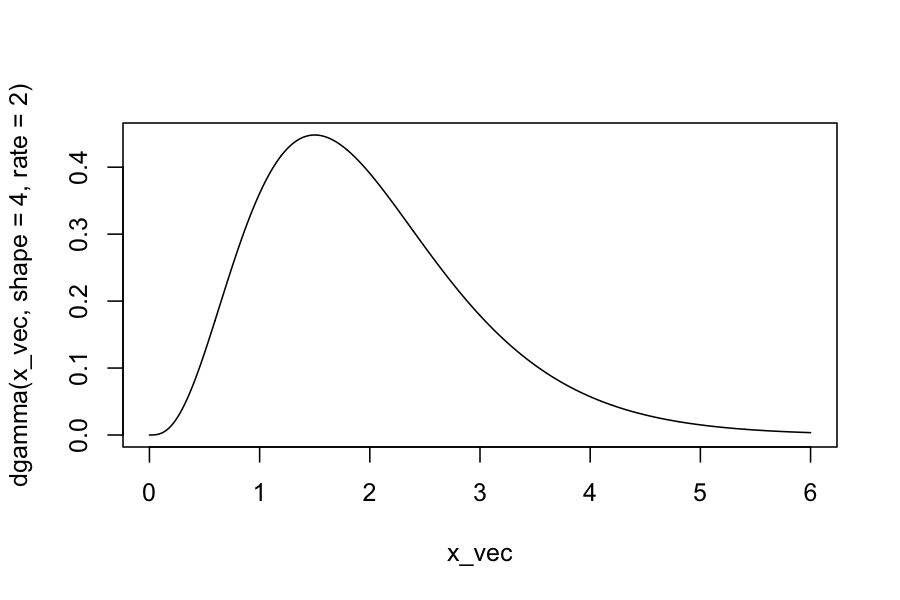
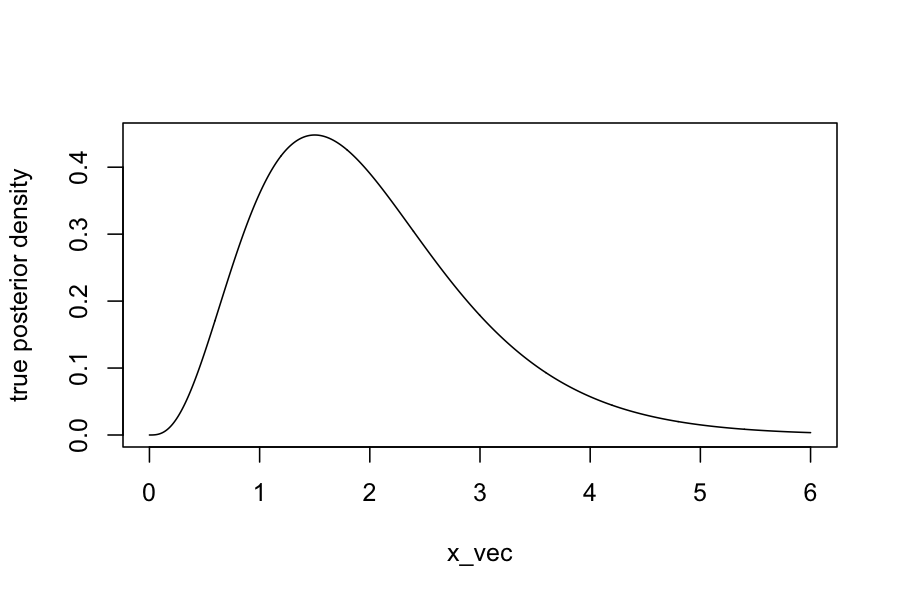
fix lecture 23

Changed region(s): [[0.0, 0.12, 0.0311, 0.81]]

diff --git a/teaching/stat710/notes/lecture23.html b/teaching/stat710/notes/lecture23.html
@@ -104,7 +104,7 @@ P(\theta \mid y_1,\ldots, y_n) &amp;= \frac{P(y_1,\ldots, y_n \mid \theta)\pi(\t
 <div class="incremental">
 <p>Sampling: for <span class="math">\(i = 1,\ldots, N\)</span>:</p>
 <ul>
-<li><p>Generate <span class="math">\(\theta^{(i)} \sim g(\theta)\)</span></p></li>
+<li><p>Generate <span class="math">\(\theta^{(i)} \sim \pi(\theta)\)</span></p></li>
 <li><p>Generate <span class="math">\(y^{(i)} \sim p(y \mid \theta^{(i)})\)</span></p></li>
 <li><p>If <span class="math">\(y^{(i)} = y_{\text{obs}}\)</span>, accept <span class="math">\(\theta^{(i)}\)</span></p></li>
 </ul>
@@ -164,7 +164,7 @@ observed_data =<span class="st"> </span><span class="dv">3</span>
 <div class="slide section level2">
 
 <div class="incremental">
-<pre class="sourceCode r"><code class="sourceCode r">## our posterior should be gamma(x + alpha, 1 + beta) or gamma(4, 2)
+<pre class="sourceCode r"><code class="sourceCode r">## our posterior should be gamma(y + alpha, 1 + beta) or gamma(4, 2)
 ## The mean of a gamma distribution is alpha / beta, so should be 2
 <span class="kw">mean</span>(posterior_samples)</code></pre>
 <pre><code>## [1] 2.037032</code></pre>
@@ -177,7 +177,7 @@ observed_data =<span class="st"> </span><span class="dv">3</span>
 <img src="lecture-23-fig/unnamed-chunk-3-1.png" />
 </div>
 <pre class="sourceCode r"><code class="sourceCode r">x_vec =<span class="st"> </span><span class="kw">seq</span>(<span class="dv">0</span>, <span class="dv">6</span>, <span class="dt">length.out =</span> <span class="dv">1000</span>)
-<span class="kw">plot</span>(<span class="kw">dgamma</span>(x_vec, <span class="dt">shape =</span> <span class="dv">4</span>, <span class="dt">rate =</span> <span class="dv">2</span>) ~<span class="st"> </span>x_vec, <span class="dt">type =</span> <span class="st">&#39;l&#39;</span>)</code></pre>
+<span class="kw">plot</span>(<span class="kw">dgamma</span>(x_vec, <span class="dt">shape =</span> <span class="dv">4</span>, <span class="dt">rate =</span> <span class="dv">2</span>) ~<span class="st"> </span>x_vec, <span class="dt">type =</span> <span class="st">&#39;l&#39;</span>, <span class="dt">ylab=</span><span class="st">&quot;true posterior density&quot;</span>)</code></pre>
 <div class="figure">
 <img src="lecture-23-fig/unnamed-chunk-3-2.png" />
 </div>
@@ -200,7 +200,7 @@ observed_data =<span class="st"> </span><span class="kw">rep</span>(<span class=
 <pre><code>## [1] 1.445692</code></pre>
 <pre class="sourceCode r"><code class="sourceCode r"><span class="kw">system.time</span>(<span class="kw">replicate</span>(<span class="dt">n =</span> <span class="dv">1000</span>, <span class="kw">generate_abc_sample</span>(observed_data, prior_distribution, data_generating_function)))</code></pre>
 <pre><code>##    user  system elapsed 
-##   0.737   0.120   0.860</code></pre>
+##   0.767   0.119   0.889</code></pre>
 <p>(Try changing <code>n_samples</code> to something bigger on your own computer...)</p>
 </div>
 </div>
@@ -286,6 +286,7 @@ epsilon =<span class="st"> </span>.<span class="dv">1</span>
 <div class="slide section level2">
 
 <p>Checking on the posterior means and variances:</p>
+<div class="incremental">
 <pre class="sourceCode r"><code class="sourceCode r">(<span class="dt">true_posterior_mean =</span> (<span class="dv">1</span> +<span class="st"> </span><span class="kw">sum</span>(observed_data)) /<span class="st"> </span>(n_samples +<span class="st"> </span><span class="dv">1</span>))</code></pre>
 <pre><code>## [1] 2.818182</code></pre>
 <pre class="sourceCode r"><code class="sourceCode r"><span class="kw">mean</span>(posterior_samples)</code></pre>
@@ -294,6 +295,7 @@ epsilon =<span class="st"> </span>.<span class="dv">1</span>
 <pre><code>## [1] 0.2561983</code></pre>
 <pre class="sourceCode r"><code class="sourceCode r"><span class="kw">var</span>(posterior_samples)</code></pre>
 <pre><code>## [1] 0.2605666</code></pre>
+</div>
 </div>
 <div class="slide section level2">
 

diff --git a/teaching/stat710/notes/index.html b/teaching/stat710/notes/index.html
@@ -8,9 +8,9 @@
     <link href="https://fonts.googleapis.com/css?family=Oxygen:300" rel="stylesheet">
     <link href="https://fonts.googleapis.com/css?family=Raleway"rel="stylesheet">
     <link href="https://fonts.googleapis.com/css?family=Inconsolata" rel="stylesheet">
-    <link rel="stylesheet" media="all" href="/res/screen.css?v=20190409121128" type="text/css">
+    <link rel="stylesheet" media="all" href="/res/screen.css?v=20190409125738" type="text/css">
     <link rel="alternate" type="application/atom+xml" title="Julia Fukuyama" href="/atom.xml">
-    <link rel="shortcut icon" href="/tree-round.png?v=20190409121128">
+    <link rel="shortcut icon" href="/tree-round.png?v=20190409125738">
 <!-- Global site tag (gtag.js) - Google Analytics -->
 <script async src="https://www.googletagmanager.com/gtag/js?id=UA-110259368-1"></script>
 <script>
